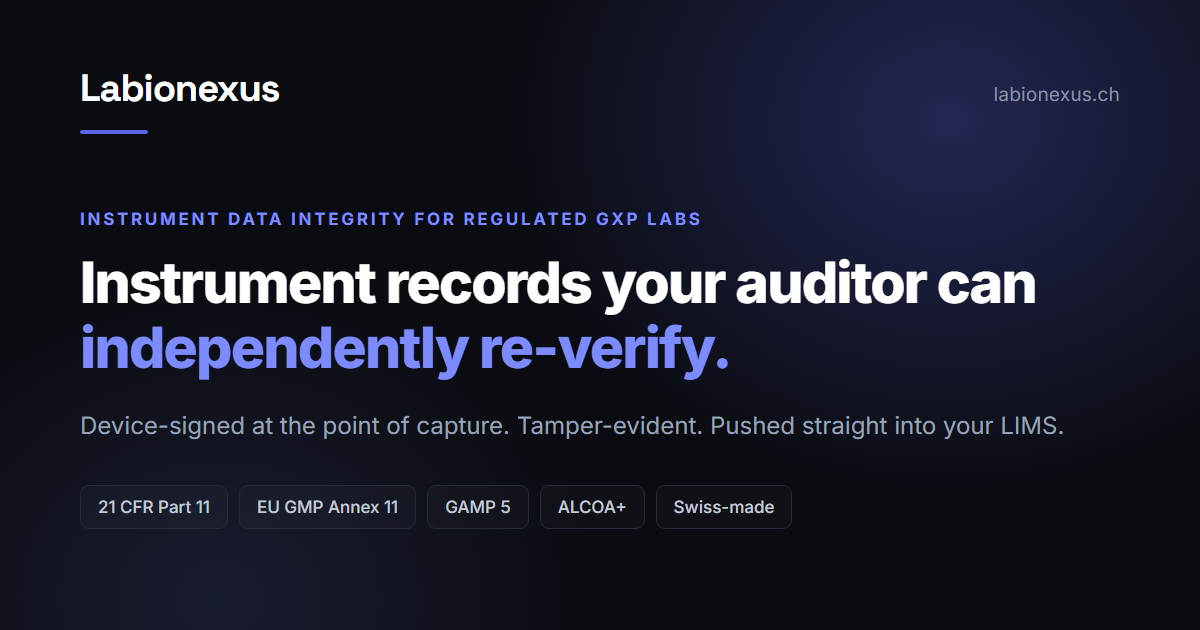
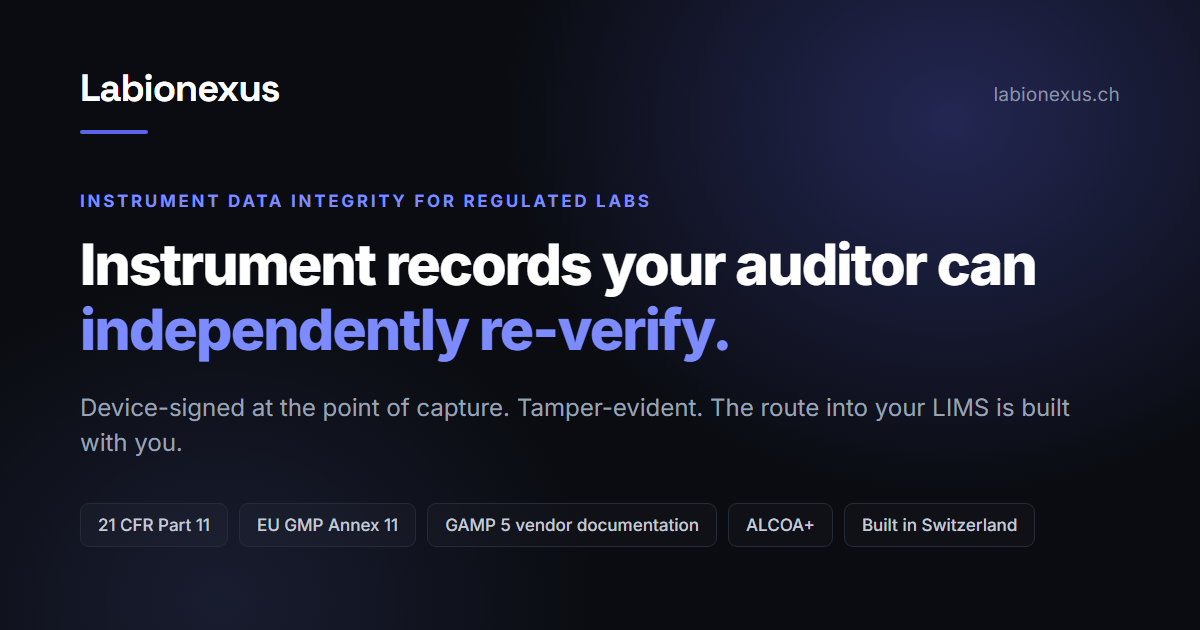
chore: regenerate the social card and align its wording with the page

diff --git a/index.html b/index.html
@@ -4,20 +4,20 @@
   <meta charset="utf-8" />
   <meta name="viewport" content="width=device-width, initial-scale=1" />
   <title>Labionexus | Instrument data integrity for regulated labs</title>
-  <meta name="description" content="Labionexus captures standalone instrument readings at the source as a signed record your auditor can independently re-verify, then routes them into your LIMS. GAMP 5, EU GMP Annex 11 and ALCOA+ aligned. Built for Swiss mid-pharma and CDMOs." />
+  <meta name="description" content="Labionexus captures standalone instrument readings at the source as a signed record your auditor can independently re-verify, then routes them into your LIMS. GAMP 5 vendor documentation, EU GMP Annex 11 and ALCOA+ aligned. Built for Swiss mid-pharma and CDMOs." />
   <meta property="og:title" content="Labionexus | Instrument data integrity for regulated labs">
-  <meta property="og:description" content="Signed instrument records your auditor can independently re-verify, routed into your LIMS. GAMP 5, EU GMP Annex 11 and ALCOA+ aligned. Swiss-made.">
+  <meta property="og:description" content="Signed instrument records your auditor can independently re-verify, routed into your LIMS. GAMP 5 vendor documentation, EU GMP Annex 11 and ALCOA+ aligned. Built in Switzerland.">
   <meta property="og:type" content="website">
   <link rel="canonical" href="https://labionexus.ch/">
   <meta property="og:url" content="https://labionexus.ch/">
-  <meta property="og:image" content="https://labionexus.ch/og-image.png">
+  <meta property="og:image" content="https://labionexus.ch/og-image.png?v=2">
   <meta property="og:image:width" content="1200">
   <meta property="og:image:height" content="630">
   <meta property="og:image:alt" content="Labionexus - instrument records your auditor can independently re-verify">
   <meta name="twitter:card" content="summary_large_image">
   <meta name="twitter:title" content="Labionexus | Instrument data integrity for regulated labs">
   <meta name="twitter:description" content="Signed instrument records your auditor can independently re-verify, routed into your LIMS.">
-  <meta name="twitter:image" content="https://labionexus.ch/og-image.png">
+  <meta name="twitter:image" content="https://labionexus.ch/og-image.png?v=2">
   <meta name="google-site-verification" content="kR_8al3oaflG4ouD0XFEwuTOO-tNLTELdM0AJEh1Tsw" />
   <meta name="theme-color" content="#0a0a0f" />
   <script defer src='https://static.cloudflareinsights.com/beacon.min.js' data-cf-beacon='{"token": "710655f3e07e44c4b5abcda4d6130d7a"}'></script>

diff --git a/og-image.source.html b/og-image.source.html
@@ -60,18 +60,18 @@
   </div>
 
   <div class="body">
-  <div class="eyebrow">Instrument data integrity for regulated GxP labs</div>
+  <div class="eyebrow">Instrument data integrity for regulated labs</div>
 
   <h1>Instrument records your auditor can<br><em>independently re-verify.</em></h1>
 
-  <div class="sub">Device-signed at the point of capture. Tamper-evident. Pushed straight into your LIMS.</div>
+  <div class="sub">Device-signed at the point of capture. Tamper-evident. The route into your LIMS is built with you.</div>
 
   <div class="chips">
     <div class="chip">21 CFR Part 11</div>
     <div class="chip">EU GMP Annex 11</div>
-    <div class="chip">GAMP 5</div>
+    <div class="chip">GAMP 5 vendor documentation</div>
     <div class="chip">ALCOA+</div>
-    <div class="chip">Swiss-made</div>
+    <div class="chip">Built in Switzerland</div>
   </div>
   </div>
 </div>
